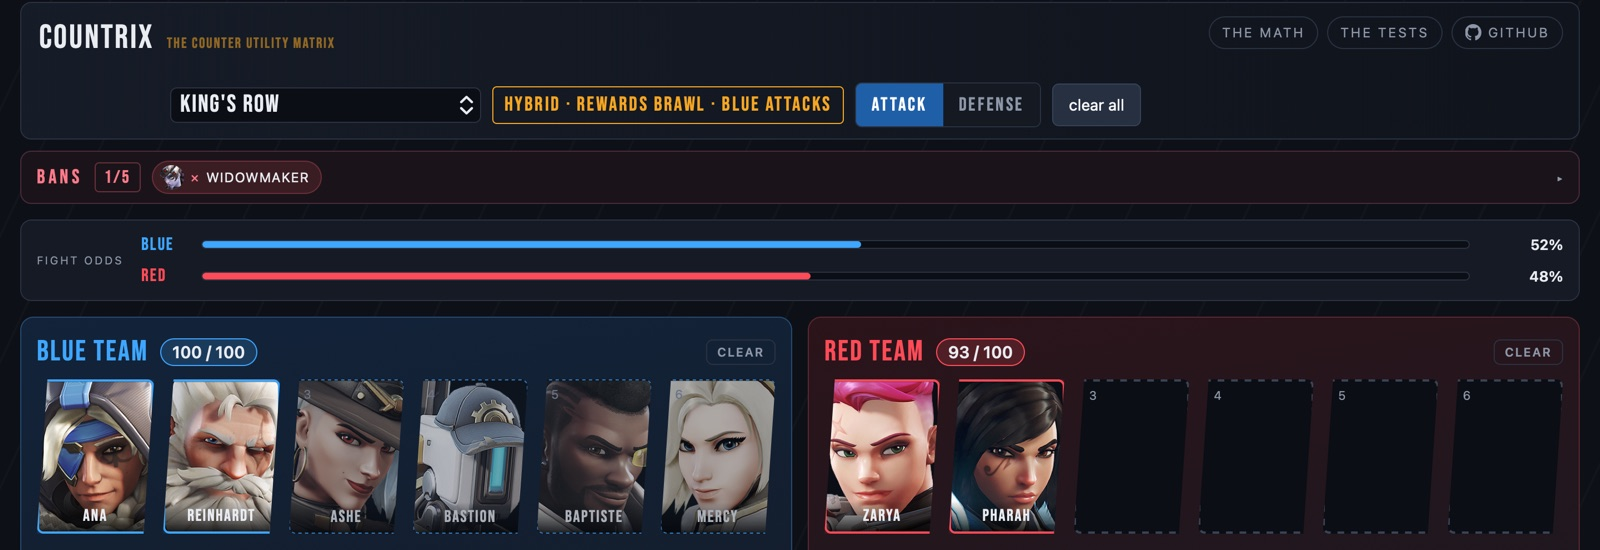
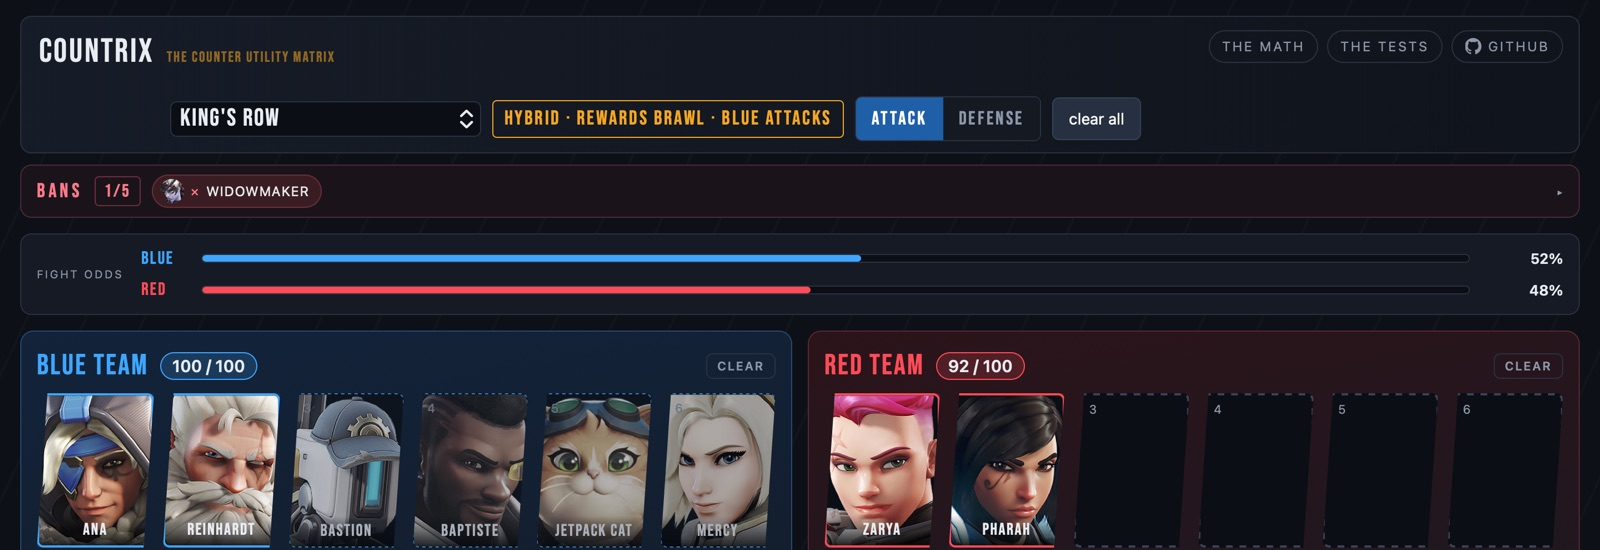
The README's pictures show no rate a player could not publish
Blizzard's rates page licenses its win, pick and ban rates for personal
use only, and the README showed them: the cards said "wins 53.7% here"
and two of the scored rules read the rates. The screenshots now run the
reference playbook without map-fit and meta-strength, the cards hide
the rate phrases, and the caption says why. CLAUDE.md states the rule
for anything published.

Claude-Session: https://claude.ai/code/session_01KoqqCAdSg2rHieeta7kCf2

diff --git a/README.md b/README.md
@@ -15,8 +15,10 @@ gives cites a fact.
 *King's Row, blue on attack, two picks a side, Widowmaker banned. The solver
 fills blue's six around Ana and Reinhardt. Each badge is a side's six as a share
 of the best six it could field here: blue's fill is its best, 100; red's two
-picks reach 93. The fight odds split those two shares and are not a win
-probability. The screenshots use the reference playbook ([below](#quick-start)).*
+picks reach 92. The fight odds split those two shares and are not a win
+probability. The screenshots run the reference playbook ([below](#quick-start))
+without its two rules that read Blizzard's published win rates, and the cards
+hide the rate figures: Blizzard licenses those for personal use only.*
 
 ## What it does
 
@@ -40,7 +42,7 @@ probability. The screenshots use the reference playbook ([below](#quick-start)).
 
 ![The score breakdown, one bar per strategy](docs/img/breakdown.jpg)
 
-*How they scored: 6,676 candidates in 1.4 s, one bar per strategy, each with
+*How they scored: 5,692 candidates in 1.3 s, one bar per strategy, each with
 the fact it read. A limit that holds adds nothing; what a six gives up shows
 under costing.*
 
@@ -101,7 +103,7 @@ v2 and Python 3.12.
 ```bash
 git clone https://github.com/mmikol/countrix.git && cd countrix
 python3.12 -m venv .venv && .venv/bin/pip install -r requirements.txt
-echo COUNTRIX_STRATEGIES=tests/fixtures/playbook >> .env   # the reference playbook, as in the screenshots
+echo COUNTRIX_STRATEGIES=tests/fixtures/playbook >> .env   # the reference playbook
 .venv/bin/python orchestrator.py up
 ```
 

diff --git a/CLAUDE.md b/CLAUDE.md
@@ -247,6 +247,9 @@ db <- facts <- inference <- door <- ui.
   2 s a Cargo page with six attempts to wait out a rate limit
   (`CARGO_POLICY`), and 0.5 s an article, asked for once
   (`ARTICLE_POLICY`). No third source, no API keys.
+- Blizzard's rates page licenses its win, pick and ban rates for personal
+  use only. Nothing public - a README image, a doc example, a published page -
+  shows a rate figure or text derived from one.
 - A pull matches a hero or map name against the database through
   `db.data.names` - `index` and `name_key`, or `hero_key` where a former
   name can appear - never by `.lower()`.
